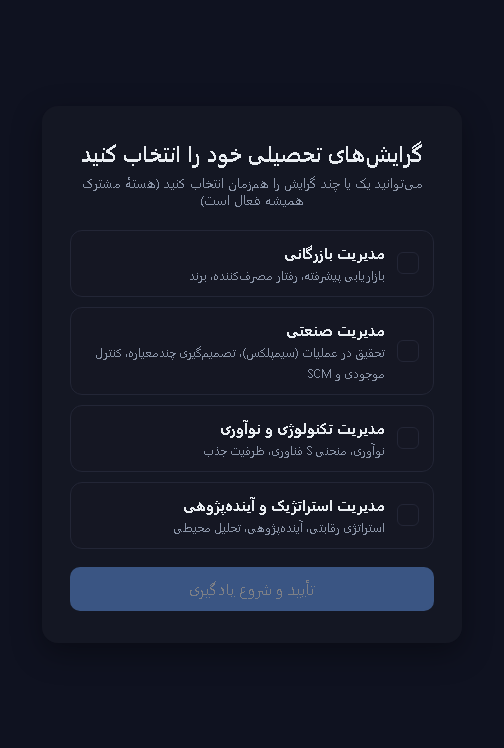
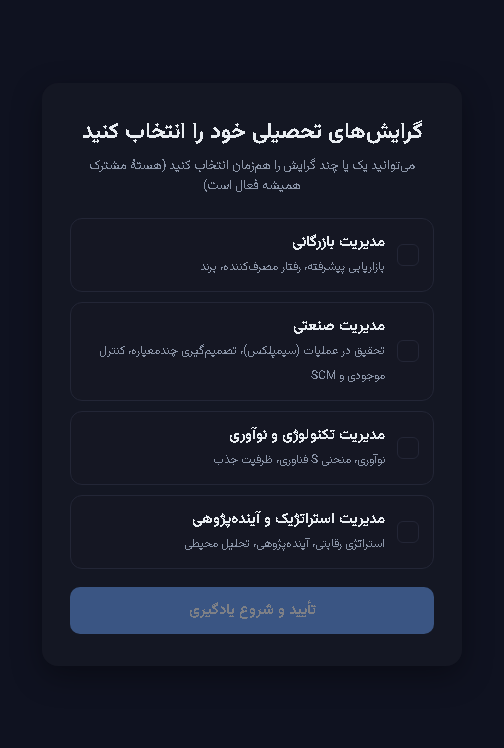
feat(ops): expose runtime configuration, drill rollback live, record platform blockers
/api/health only said ok, so the deployed Worker running MemoryStore with demo
auth enabled looked perfectly healthy (RK-12/RK-13 were invisible). Added
GET /api/health/detail, gated by the admin token, reporting store kind,
ENVIRONMENT, demo-auth state and config warnings — states and booleans only,
never secret values or lengths. Three tests cover it, including that the public
health payload stays exactly {ok:true}.

Ran a two-way rollback drill on the live Worker (b72fe023 -> 16e3221c -> b72fe023)
and verified it with an observable marker (404 on the older version, 403 on the
newer one), then re-ran the full browser E2E against production: 20/20.

Two obstacles found by doing the work rather than assuming it: the wrangler token
has no durable_objects permission (and KV's ~1 write/second per key makes it the
wrong tool for a per-request counter), so a global rate limit is recorded as
BLOCKED instead of half-implemented; and no Telegram or Supabase credential exists
anywhere in the project tree, so those steps stay awaiting owner input.

diff --git a/apps/worker/src/index.ts b/apps/worker/src/index.ts
@@ -100,6 +100,12 @@ export function createApp(env: Env, options: CreateAppOptions = {}): Hono<{ Vari
     (env.SUPABASE_URL && env.SUPABASE_SERVICE_ROLE_KEY
       ? new SupabaseStore(env.SUPABASE_URL, env.SUPABASE_SERVICE_ROLE_KEY)
       : (globalMemoryStore ??= new MemoryStore()));
+  // A-28: نوع لایهٔ داده باید از بیرون قابل تشخیص باشد (حالت بیصدا MemoryStore)
+  const storeKind: 'supabase' | 'memory' | 'injected' = options.store
+    ? 'injected'
+    : env.SUPABASE_URL && env.SUPABASE_SERVICE_ROLE_KEY
+      ? 'supabase'
+      : 'memory';
   const isProduction =
     env.ENVIRONMENT === 'production' ||
     (typeof (globalThis as any).process !== 'undefined' && (globalThis as any).process.env?.NODE_ENV === 'production');
@@ -339,6 +345,42 @@ export function createApp(env: Env, options: CreateAppOptions = {}): Hono<{ Vari
   /* ------------------------------ routes ------------------------------ */
 
   app.get('/api/health', (c) => c.json({ ok: true }));
+
+  // A-28: پیکربندی runtime را از بیرون قابلمشاهده میکند. پیشتر `/api/health`
+  // فقط {"ok":true} میداد، بنابراین ورکری که بیصدا با MemoryStore اجرا میشد
+  // (مانند محیط زندهٔ ۲۰۲۶-۱۱-۰۳) کاملاً سالم بهنظر میرسید.
+  // فقط بولین/نام حالت برگردانده میشود؛ هیچ مقدار secret یا طول آن فاش نمیشود.
+  app.get('/api/health/detail', (c) => {
+    if (!isAdminAuthorized(c)) return adminAuthError(c);
+    const warnings: string[] = [];
+    if (storeKind !== 'supabase') {
+      warnings.push('persistence=memory: پیشرفت کاربران با هر deploy یا ایزولیت تازه از بین میرود (RK-13)');
+    }
+    if (allowDemoAuth) {
+      warnings.push('demo auth فعال است: ورود با telegramUserId بدون امضا پذیرفته میشود (RK-12)');
+    }
+    if (!isProduction) {
+      warnings.push('ENVIRONMENT=production ست نشده ⇒ گاردهای fail-closed پروداکشن اجرا نمیشود');
+    }
+    return c.json({
+      ok: true,
+      store: storeKind,
+      environment: env.ENVIRONMENT ?? null,
+      productionGuardsActive: isProduction,
+      demoAuthEnabled: allowDemoAuth,
+      secretsConfigured: {
+        sessionSecret: Boolean(env.SESSION_SECRET),
+        adminApiToken: Boolean(env.ADMIN_API_TOKEN),
+        telegramBotToken: Boolean(env.TELEGRAM_BOT_TOKEN),
+        telegramWebhookSecret: Boolean(env.TELEGRAM_WEBHOOK_SECRET),
+        supabaseUrl: Boolean(env.SUPABASE_URL),
+        supabaseServiceRoleKey: Boolean(env.SUPABASE_SERVICE_ROLE_KEY),
+      },
+      // محدودیت مستندشدهٔ A-27: شمارندهٔ نرخ در هر isolate مستقل است
+      rateLimitScope: 'per-isolate-in-memory',
+      warnings,
+    });
+  });
 
   // شمارندهٔ نرخ باید سطح isolate (ماژول) باشد: Workers بهازای هر درخواست
   // createApp(env) را صدا میزند، پس Map داخل createApp هیچوقت بیش از یک

diff --git a/apps/worker/tests/worker.test.ts b/apps/worker/tests/worker.test.ts
@@ -395,6 +395,53 @@ describe('worker API — حلقهٔ کامل یادگیری', () => {
     expect(res.status).toBe(429);
   });
 
+  it('A-28: /api/health/detail only with admin token, and never leaks secret values', async () => {
+    const noToken = await app.request('/api/health/detail');
+    expect(noToken.status).toBe(403);
+
+    const wrong = await app.request('/api/health/detail', {
+      headers: { Authorization: 'Bearer definitely-not-the-admin-token-value-1234' },
+    });
+    expect(wrong.status).toBe(403);
+
+    const ok = await app.request('/api/health/detail', {
+      headers: { Authorization: `Bearer ${ENV.ADMIN_API_TOKEN}` },
+    });
+    expect(ok.status).toBe(200);
+    const body = (await ok.json()) as any;
+    expect(body.store).toBe('injected');
+    expect(body.productionGuardsActive).toBe(false);
+    expect(body.demoAuthEnabled).toBe(true);
+    expect(body.rateLimitScope).toBe('per-isolate-in-memory');
+    expect(body.secretsConfigured.sessionSecret).toBe(true);
+    // هیچ مقدار secret یا طول آن در پاسخ نیست
+    const raw = JSON.stringify(body);
+    expect(raw).not.toContain(ENV.ADMIN_API_TOKEN as string);
+    expect(raw).not.toContain(ENV.SESSION_SECRET as string);
+    expect(raw).not.toContain(ENV.TELEGRAM_WEBHOOK_SECRET as string);
+    expect(raw).not.toMatch(/"length"/);
+    // وضعیت نگرانکننده باید صریح اعلام شود (نه اینکه /api/health سالم بهنظر برسد)
+    expect(body.warnings.join(' ')).toContain('persistence=memory');
+  });
+
+  it('A-28b: با Supabase متصل، هشدار ماندگاری داده نمایش داده نمیشود', async () => {
+    const withSupabase = createApp(
+      { ...ENV, SUPABASE_URL: 'https://example.supabase.co', SUPABASE_SERVICE_ROLE_KEY: 'x'.repeat(40) },
+      { rateLimits: new Map() },
+    );
+    const res = await withSupabase.request('/api/health/detail', {
+      headers: { Authorization: `Bearer ${ENV.ADMIN_API_TOKEN}` },
+    });
+    const body = (await res.json()) as any;
+    expect(body.store).toBe('supabase');
+    expect(body.warnings.join(' ')).not.toContain('persistence=memory');
+  });
+
+  it('A-28c: /api/health عمومی هیچ جزئیات پیکربندی نمیدهد', async () => {
+    const res = await app.request('/api/health');
+    expect(await res.json()).toEqual({ ok: true });
+  });
+
   it('A-26: محدودکننده خودش را در پاسخ گزارش میدهد (قابل مشاهده در پروداکشن)', async () => {
     const limited = createApp({ ...ENV }, { store: new MemoryStore() });
     const first = await limited.request('/api/auth/telegram', {

diff --git a/docs/audit/REMEDIATION_REGISTER.md b/docs/audit/REMEDIATION_REGISTER.md
@@ -79,4 +79,6 @@ Exam structure→R-001; curriculum counts→R-002; coefficients→R-003; coverag
 | A-24 | `insertAnswerEvent` مسیر بلیت را دور میزند (فراخوان تولیدی ندارد) | `store.ts` | NOT_STARTED | با بازطراحی رابط DataStore |
 | A-25 | اصلاح A-04 به `ENVIRONMENT=production` گره خورده بود؛ ورکر زنده آن متغیر را نداشت، پس محدودکننده در محیط زنده همچنان بیاثر ماند (۳۳ درخواست پیاپی ⇒ صفر ۴۲۹) | worker | PASS_WITH_EVIDENCE (found by live verification) | `evidence/deploy-20261103/live-rate-limit.txt` قبل از رفع؛ تست `A-04b` همان پیکربندی بدون ENVIRONMENT را میسنجد |
 | A-26 | بیاثر بودن محدودکننده از بیرون قابل تشخیص نبود (هیچ نشانهای در پاسخ نبود) | worker | PASS_WITH_EVIDENCE | هدرهای `X-RateLimit-Limit/Remaining/Window-Ms/Key` (اثرانگشت SHA-256، بدون نشت IP/توکن) + تست A-26؛ شواهد زنده `live-rate-limit-observable.txt` |
-| A-27 | محدودکنندهٔ in-memory روی Workers محافظت **سراسری** نیست: شمارندهٔ هر isolate جداست؛ با burst ۱۲۰ درخواستی، اولین ۴۲۹ در درخواست #۶۱ با آستانهٔ ۳۰ ⇒ ۲ ایزولیت | worker + platform | NOT_STARTED (نیازمند Durable Object/KV) | `evidence/deploy-20261103/live-rate-limit-isolates.txt`؛ راهحل پیشنهادی: شمارندهٔ DO در همان پنجرهٔ ۶۰ ثانیهای |
+| A-27 | محدودکنندهٔ in-memory روی Workers محافظت **سراسری** نیست: شمارندهٔ هر isolate جداست؛ با burst ۱۲۰ درخواستی، اولین ۴۲۹ در درخواست #۶۱ با آستانهٔ ۳۰ ⇒ ۲ ایزولیت | worker + platform | BLOCKED (مجوز پلتفرم) | `evidence/deploy-20261103/live-rate-limit-isolates.txt`. راهحل درست (Durable Object) از این حساب قابل استقرار نیست: `wrangler whoami` فقط `workers/workers_kv/workers_routes/workers_scripts/workers_tail` را نشان میدهد و `durable_objects` در مجوزها نیست. جایگزین KV هم برای شمارندهٔ هر-درخواست نامناسب است (سقف تقریبی ۱ نوشتار در ثانیه برای هر کلید)؛ ساختن محدودکنندهٔ نیمهکاره بهتر از ثبت مانع نیست |
+| A-28 | وضعیت پیکربندی زنده از بیرون نامرئی بود: `/api/health` تنها `{ok:true}` میداد و ورکرِ در حال اجرا با MemoryStore (بدون Supabase، بدون ENVIRONMENT، با demo auth باز) کاملاً سالم بهنظر میرسید | worker + ops | PASS_WITH_EVIDENCE | `GET /api/health/detail` با گیت ADMIN_API_TOKEN (بدون توکن ۴۰۳؛ بدون افشای هیچ مقدار secret یا طول آن) که نوع مخزن، `ENVIRONMENT`، وضعیت demo auth و هشدارها را برمیگرداند. سه تست A-28/A-28b/A-28c در `worker.test.ts`؛ همین endpoint بهعنوان مارکر مانور rollout هم استفاده شد (`404` روی نسخهٔ قدیمی، `403` روی نسخهٔ جدید) |
+| A-29 | استقرار بدون مانور rollback تأیید نشده بود | ops | PASS_WITH_EVIDENCE (scoped: Worker version-level) | مانور دوجهته روی ورکر زنده `b72fe023 → 16e3221c → b72fe023` با راستیآزمایی مارکر و E2E کامل بعد از مانور: `evidence/deploy-20261103/rollback-drill-1-back.txt`, `rollback-drill-2-forward.txt`, `e2e-production-post-drill.txt` (20/20). Supabase restore و rollback دارایی/DNS هنوز مانور نشده |

diff --git a/docs/deploy/ACTIVATION_RUNBOOK_20261103.md b/docs/deploy/ACTIVATION_RUNBOOK_20261103.md
@@ -121,7 +121,23 @@ curl -s "https://api.telegram.org/bot$TELEGRAM_BOT_TOKEN/setWebhook" \
 | A-06 زنده | آیتم صف فاقد `trapNote`/`explanation`/`correctOption`/`ease`/`fsrs`/`timesSeen`/`userId`؛ کلیدهای کارت فقط `id,nodeId,cardType,questionId,trapCardId,isRepair,isProof` | `live-api-checks.txt`، `live-queue.json` |
 | A-17 زنده | کاربر تازه: `progress = {"overall":null,"assessedNodes":0,"nodes":17}` | `live-home.json` |
 | A-14 زنده | `PUT /api/tracks` با ورودی تکراری → `["common","business","technology","strategy","industrial"]`؛ `limit=5` → دقیقاً ۵ آیتم | `live-api-checks.txt` |
+| A-28 | پیکربندی زنده قابل مشاهده شد: `GET /api/health/detail` بدون توکن `403` میدهد و نوع مخزن/هشدارها را report میکند (هیچ مقدار secret فاش نمیشود) | `rollback-drill-*.txt`، تستهای A-28 |
+| A-29 | مانور rollback دوجهته روی ورکر زنده (`b72fe023 → 16e3221c → b72fe023`) با مارکر + E2E کامل بعد از مانور (20/20) | `rollback-drill-1-back.txt`, `rollback-drill-2-forward.txt`, `e2e-production-post-drill.txt` |
 | A-25/A-26/A-27 | شمارندهٔ نرخ در زنده اجرا میشود (`X-RateLimit-Remaining` کاهش مییابد)؛ اندازهگیری شد که محافظت per-isolate است: با burst ۱۲۰ درخواستی اولین ۴۲۹ در درخواست **#۶۱** با آستانهٔ ۳۰ ⇒ دو ایزولیت | `live-rate-limit-observable.txt`، `live-rate-limit-isolates.txt` |
+
+## ۲-پ) دو مانعی که در اجرای خودِ کار پیدا شد (و حدس نزدیم)
+
+1. **محدودکنندهٔ سراسری از این حساب قابل استقرار نیست.** رفع کامل A-27 به Durable Object نیاز
+   دارد؛ `wrangler whoami` این مجوزها را دارد: `workers (write)`, `workers_kv (write)`,
+   `workers_routes (write)`, `workers_scripts (write)`, `workers_tail (read)` — و
+   `durable_objects` در فهرست مجوز **نیست**. KV هم ابزار درست این کار نیست (سقف تقریبی
+   ۱ نوشتار در ثانیه برای هر کلید، در حالی که محدودکننده باید هر درخواست را بنویسد).
+   بنابراین A-27 بهصورت `BLOCKED (مجوز پلتفرم)` ثبت شد، نه «رفعشده».
+2. **توکنها در پوشهٔ پروژه پیدا نشدند.** جستوجوی محتوایی روی تمام درخت پروژه (بهجز
+   `node_modules/`, `.git/`, `dist/`, `.wrangler/`) هیچ رشتهای به شکل توکن ربات تلگرام و هیچ
+   `SUPABASE_URL` واقعی پیدا نکرد؛ تنها فایل موجود `.env.example` با placeholder بود و
+   `.env.local`/`.dev.vars` ساخته نشدهاند (هر دو در `.gitignore`). پس گامهای ۱، ۲ و ۴ بدون
+   دریافت مقدار از شما قابل اجرا نیستند و ما چیزی را جعل یا حدس نزدیم.
 
 ## ۳) آنچه انجام **نشده** یا عمداً باز مانده
 

diff --git a/PRODUCTION_READINESS_CHECKLIST.md b/PRODUCTION_READINESS_CHECKLIST.md
@@ -76,8 +76,8 @@ Statuses follow the standard set only. A row without a linked artifact is not a 
 | Pilot (technical/educational/extended) | BLOCKED | No real participants (R-012); no pilot data |
 | A/B testing | NOT_STARTED | No experiment harness/data |
 | Deployment runbook | NOT_STARTED | Only a `wrangler deploy` mention exists |
-| Rollback procedure | NOT_STARTED | Not rehearsed |
-| Monitoring/alerts | NOT_STARTED | No dashboards or alert configuration |
+| Rollback procedure | PASS_WITH_EVIDENCE (scoped: Worker version-level) | 2026-11-03 drill on the live Worker: rolled back `b72fe023 → 16e3221c` and forward again with `wrangler rollback <version-id>`, verified by an observable marker (`/api/health/detail` returns 404 on the older version, 403 on the newer one) and a full browser E2E against production after the drill (20/20). Evidence: `evidence/deploy-20261103/rollback-drill-1-back.txt`, `rollback-drill-2-forward.txt`, `e2e-production-post-drill.txt`. Not rehearsed: Supabase restore into the real DB and DNS/asset rollback |
+| Monitoring/alerts | NOT_STARTED | No dashboards or alert configuration. Added a minimal observable instead (A-28): `GET /api/health/detail` (admin-token gated) reports store kind, `ENVIRONMENT`, demo-auth state and config warnings — without it the live Worker running MemoryStore looked perfectly healthy |
 | Structured logging | IMPLEMENTED_UNVERIFIED | Console logs only; no aggregation/retention policy |
 
 ## 6. Performance
@@ -132,7 +132,7 @@ Statuses follow the standard set only. A row without a linked artifact is not a 
 | E2E | Passed | Local mini-app 15/15 in Chrome and Edge; staging/Telegram absent | PARTIAL |
 | Security test | Passed | Local suites; no staging/pentest | PARTIAL |
 | Performance test | Passed | Local API + local PostgreSQL/synthetic only | PARTIAL |
-| Rollback tested | Yes | DB dump/restore passed; deployment rollback NOT_STARTED | NOT MET |
+| Rollback tested | Yes | DB dump/restore passed locally; **Worker version rollback drilled live in both directions** (see §5) | PARTIAL (Supabase restore drill is local-only) |
 | Monitoring configured | Yes | NOT_STARTED | NOT MET |
 
 **Decision: NO-GO / DEFER.** The product is not release-ready. The remaining blockers are external

diff --git a/docs/api/api.md b/docs/api/api.md
@@ -191,6 +191,33 @@ Authorization: Bearer <session_token>
 - `metricCatalog` تعریف/منبع هر ۱۳ شاخص را میدهد؛ `excludedVanityMetrics = [login_count, streak_days, xp, coins, session_count]` صریحاً از پاسخ حذف شدهاند.
 - تمرکز شاخصها بر شاهد ذخیرهشده است: پاسخهای ۳۰ روز، `mastery_history` هفت روز، کارتهای FSRS و وضعیت مهارتها.
 
+## سلامت و مشاهدهپذیری
+
+### `GET /api/health`
+
+همیشه `{"ok": true}` و بدون هیچ جزئیات پیکربندی (پاسخ: فقط سلامت).
+
+### `GET /api/health/detail`
+
+`Authorization: Bearer <ADMIN_API_TOKEN>` لازم است؛ بدون آن `403` (بدون افشای اینکه توکن غیب است، کوتاه است یا اشتباه).
+
+پاسخ تنها **حالتها** را میگوید و هیچ مقدار secret یا طول آن را فاش نمیکند:
+
+```json
+{
+  "ok": true,
+  "store": "supabase | memory | injected",
+  "environment": "production",
+  "productionGuardsActive": true,
+  "demoAuthEnabled": false,
+  "secretsConfigured": { "sessionSecret": true, "supabaseUrl": true, "supabaseServiceRoleKey": true, "telegramBotToken": true, "telegramWebhookSecret": true, "adminApiToken": true },
+  "rateLimitScope": "per-isolate-in-memory",
+  "warnings": ["…"]
+}
+```
+
+ممیزی A-28: پیش از این `/api/health` تنها `ok` میداد و ورکری که بیصدا با `MemoryStore` اجرا میشد کاملاً سالم بهنظر میرسید؛ حالا `warnings` همان وضعیت را اعلام میکند (`persistence=memory`، demo auth باز، `ENVIRONMENT` ستنشده).
+
 ## انگیزش و قفل زنجیره
 
 ### `POST /api/streak/freeze`
